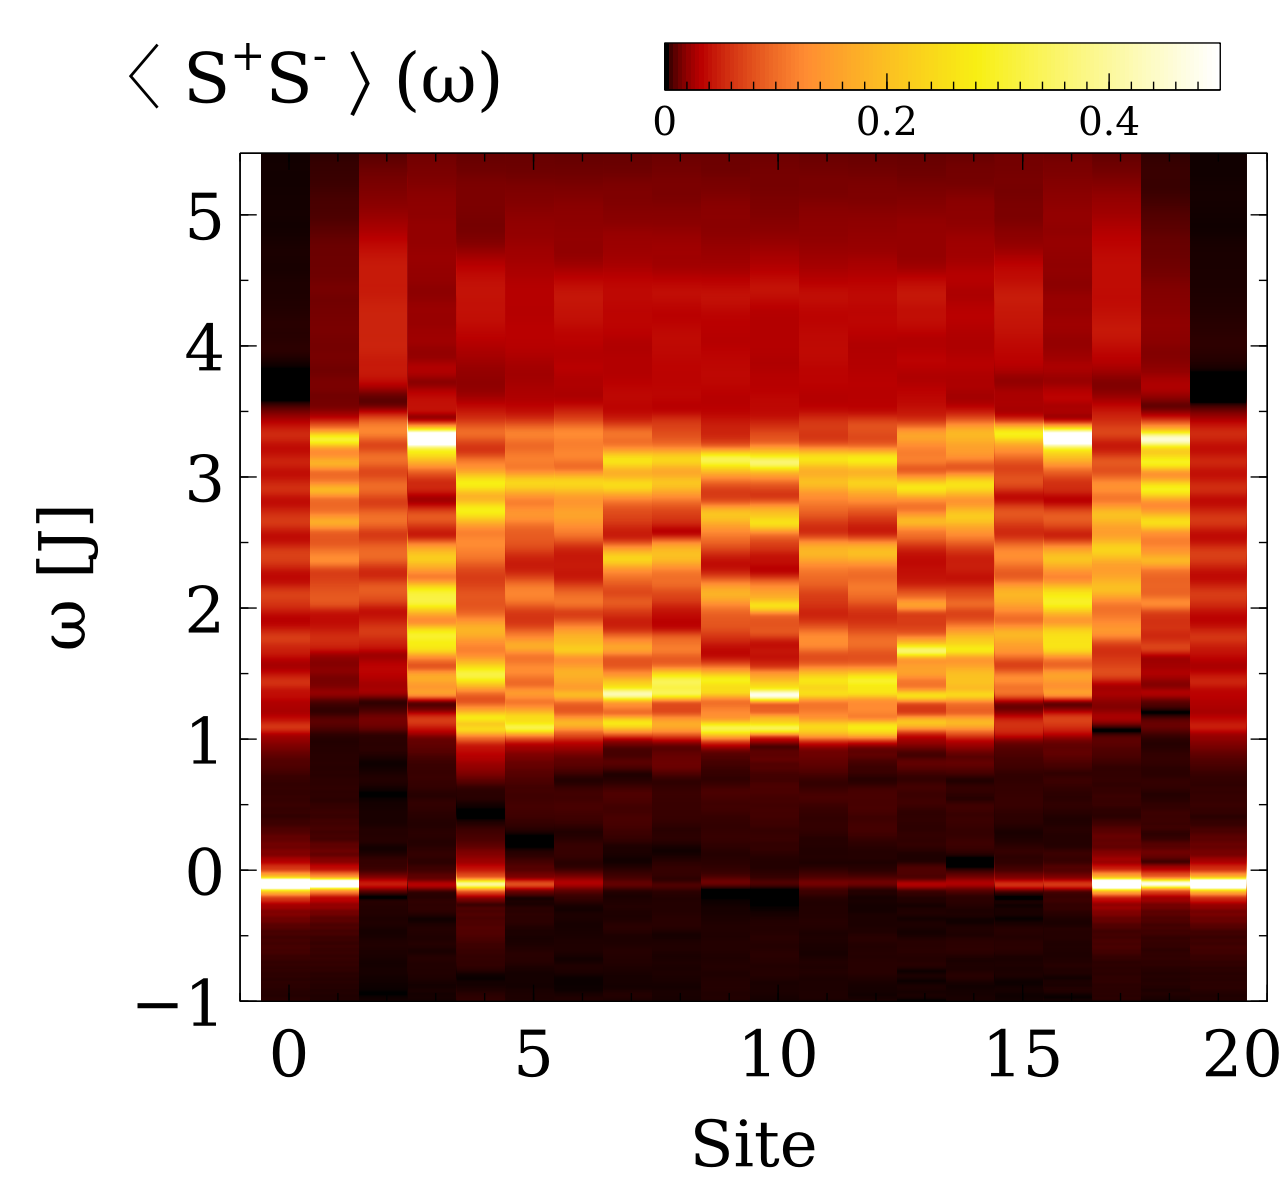
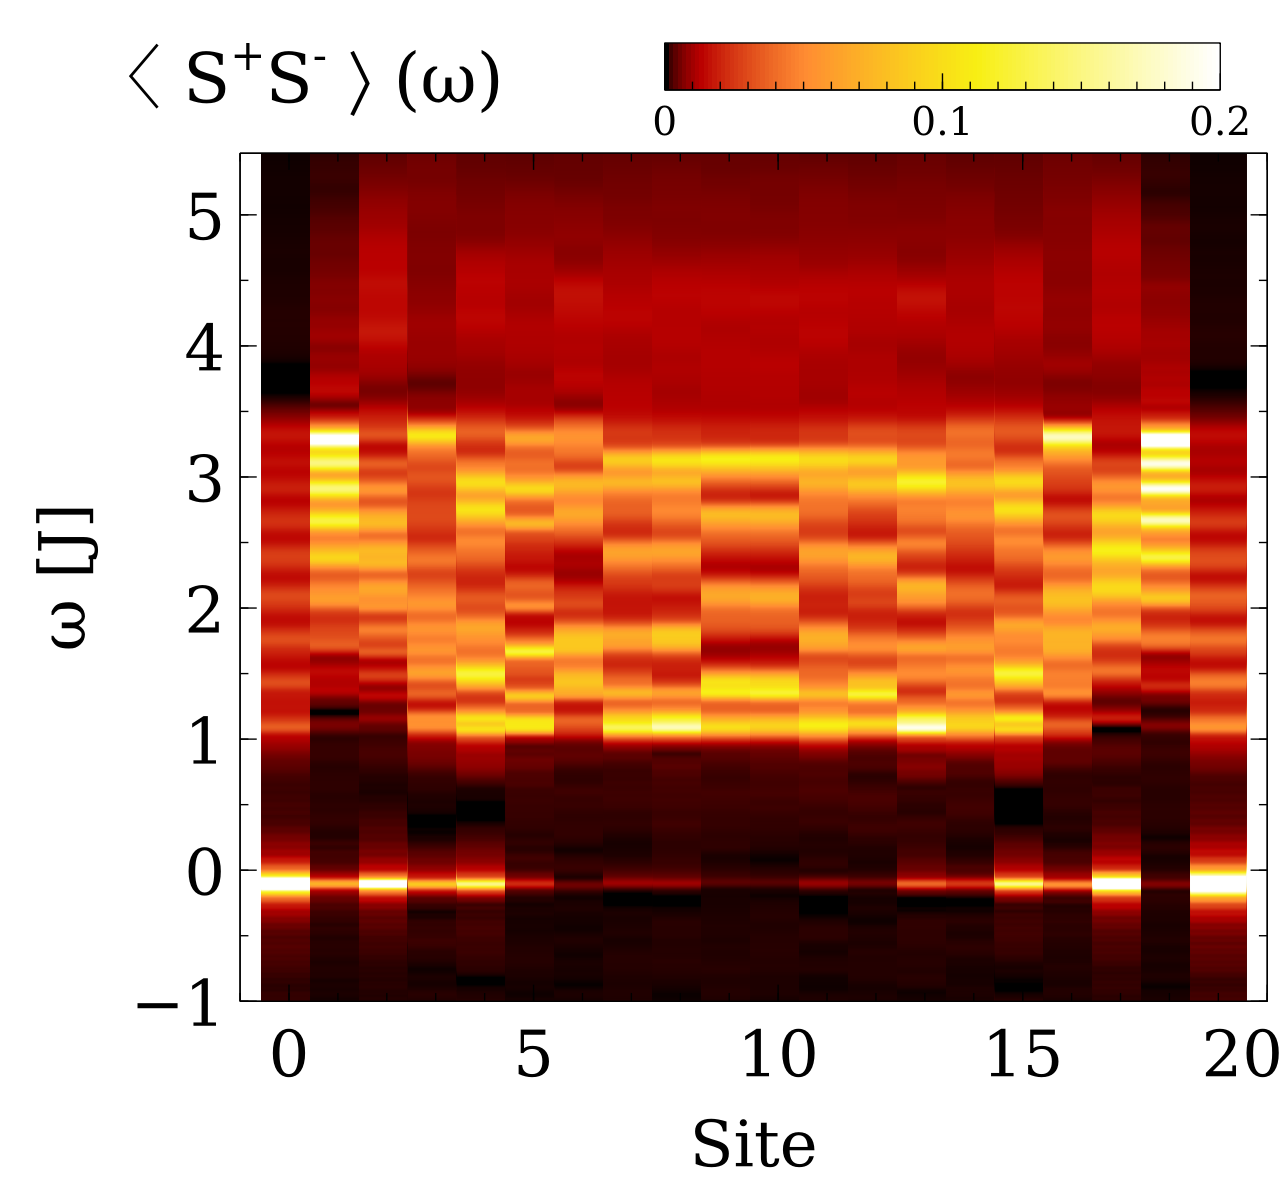
New version

diff --git a/src/kpmdmrg.py b/src/kpmdmrg.py
@@ -1,3 +1,4 @@
+from __future__ import print_function
 import numpy as np
 
 def get_moments_dmrg(self,n=1000):
@@ -74,16 +75,14 @@ def get_spismj(self,n=1000,mode="DMRG",i=0,j=0,smart=True,window=[-1,10]):
     xs -= e0 # substract GS energy
     # now retain only an energy window
   else: 
-    import pychain.build
-    sc = pychain.build.Spin_chain()
-    sc.build((np.array(self.spins)-1.)/2.,use_lib=False)
-    h = sc.add_tensor_interaction(self.get_coupling)
+    h = self.get_full_hamiltonian()
+    sc = self.get_pychain()
     import pychain.correlator
     if mode=="fullKPM":
-      (xs,ys) = pychain.correlator.spismj_kpm(sc,h,n=n)
-    elif mode=="full":
+      (xs,ys) = pychain.correlator.spismj_kpm(sc,h,n=n,i=i,j=j)
+    elif mode=="full" or mode=="ED":
       delta = float(self.ns)/n*1.5
-      (xs,ys) = pychain.correlator.spismj(sc,h,delta=delta)
+      (xs,ys) = pychain.correlator.spismj(sc,h,delta=delta,i=i,j=j)
     else: raise
   self.to_origin() # go to origin folder
   (xs,ys) = restrict_interval(xs,ys,window) # restrict the interval
@@ -94,11 +93,12 @@ def get_spismj(self,n=1000,mode="DMRG",i=0,j=0,smart=True,window=[-1,10]):
 def restrict_interval(x,y,window):
   """Restrict the result to a certain energy window"""
   if window is None: return (x,y)
-  i = np.argwhere(x<window[0])[0] # last one
-  j = np.argwhere(x>window[1])[0] # last one
-#  if len(i)==0: i = 0
-#  else: i = i[-1]
-  print(i,j,window[0])
+  i = np.argwhere(x<window[0]) # last one
+  j = np.argwhere(x>window[1]) # last one
+  if len(i)==0: i = 0
+  else: i = i[0][-1]
+  if len(j)==0: j = len(x)
+  else: j = j[0][0]
   return x[i:j],y[i:j]
 
 

diff --git a/src/spinchain.py b/src/spinchain.py
@@ -2,6 +2,7 @@ from __future__ import print_function
 import numpy as np
 import os
 import kpmdmrg
+import pychainwrapper
 
 dmrgpath = os.environ["DMRGROOT"] # path for the program
 one = np.identity(3)
@@ -69,11 +70,9 @@ class Spin_Hamiltonian():
     self.run() # perform the calculation
     return np.genfromtxt("ENTROPY.OUT")
   def get_full_hamiltonian(self):
-    import pychain.build
-    sc = pychain.build.Spin_chain()
-    sc.build((np.array(self.spins)-1.)/2.,use_lib=False)
-    h = sc.add_tensor_interaction(self.get_coupling)
-    return h
+    return pychainwrapper.get_full_hamiltonian(self)
+  def get_pychain(self):
+    return pychainwrapper.get_pychain(self)
   def get_dos(self,n=1000,mode="DMRG"):
     return kpmdmrg.get_dos(self,n=n,mode=mode)
   def get_spismj(self,n=1000,mode="DMRG",i=0,j=0,smart=False):
@@ -106,10 +105,7 @@ class Spin_Hamiltonian():
       self.run() # perform the calculation
       out = np.genfromtxt("GS_ENERGY.OUT") # return the ground state energy
     elif mode=="ED": # use brute force
-      import pychain.build
-      sc = pychain.build.Spin_chain()
-      sc.build((np.array(self.spins)-1.)/2.,use_lib=False)
-      h = sc.add_tensor_interaction(self.get_coupling)
+      h = self.get_full_hamiltonian() # get the Hamiltonian 
       import pychain.spectrum
       out = pychain.spectrum.ground_state(h)[0] # return energy
     else: 

diff --git a/test/correlator_kpm/main.py b/test/correlator_kpm/main.py
@@ -8,32 +8,28 @@ n = 6
 spins = [2 for i in range(n)] # spin 1/2 heisenberg chain
 sc = spinchain.Spin_Hamiltonian(spins) # create the spin chain
 
+sc.set_fields(lambda x: [0.,0.,1.])
+
 #sc.kpmmaxm = 10 # KPM max m
 sc.kpmscale = 10.0
 import time
 
 
-t0 = time.time()
-#(x1,y1) = sc.get_spismj(n=300,mode="DMRG",i=0,j=0,smart=True)
 t1 = time.time()
-(x2,y2) = sc.get_spismj(n=300,mode="DMRG",i=0,j=0,smart=False)
+(x2,y2) = sc.get_spismj(n=300,mode="DMRG",i=1,j=3)
 t2 = time.time()
-(x3,y3) = sc.get_spismj(n=300,mode="full",i=0,j=0)
+(x3,y3) = sc.get_spismj(n=300,mode="ED",i=1,j=3)
 t3 = time.time()
-#(x4,y4) = sc.get_spismj(n=300,mode="fullKPM",i=0,j=0)
-t4 = time.time()
 
-print("Time in full energy window",t2-t1)
+print("Time with DMRG",t2-t1)
 #print("Time in reduced energy window",t1-t0)
-print("Time using exact matrix inversion",t3-t2)
+print("Time with ED",t3-t2)
 #print("Time using exact KPM",t3-t2)
 
 import matplotlib.pyplot as plt
 
-#plt.plot(x1,y1,c="red",label="Smart DMRG")
-plt.plot(x2,y2,c="blue",label="KPM DMRG")
-plt.scatter(x3,y3,c="green",label="Exact inversion")
-#plt.scatter(x4,y4,c="black",label="KPM full")
+plt.plot(x2,y2,c="blue",label="DMRG")
+plt.scatter(x3,y3,c="green",label="ED")
 plt.xlim([-0.5,4.5])
 plt.legend()
 

diff --git a/src/pychain/correlator.py b/src/pychain/correlator.py
@@ -13,8 +13,8 @@ def spismj(sc,h0,es=None,i=0,j=0,delta=0.1):
   e0,wf0 = spectrum.ground_state(h0) # get the ground state
   if es is None:
     es = np.linspace(-1.0,7.0,int(40/delta))
-  sm = sc.sxi[i] + 1j*sc.syi[i] # S+
-  sp = sc.sxi[j] - 1j*sc.syi[j] # S-
+  sm = sc.sxi[i] - 1j*sc.syi[i] # S-
+  sp = sc.sxi[j] + 1j*sc.syi[j] # S+
   iden = np.identity(h0.shape[0],dtype=np.complex) # identity
   out = []
   for e in es: # loop over energies
@@ -32,16 +32,17 @@ def spismj_kpm(sc,h0,es=np.linspace(-1.0,4.0,300),i=0,j=0,delta=0.1,n=500):
   emax,wfmax = lg.eigsh(h0,k=1,ncv=20,which="LA")
   e0,wf0 = -e0[0],np.transpose(wf0)[0]
   emax = emax[0]
-  sm = sc.sxi[i] + 1j*sc.syi[i] # S+
-  sp = sc.sxi[j] - 1j*sc.syi[j] # S-
+  sm = sc.sxi[i] - 1j*sc.syi[i] # S-
+  sp = sc.sxi[j] - 1j*sc.syi[j] # S+
   vi = sm*csc(wf0).transpose() 
+  vj = sp*csc(wf0).transpose() 
   h = -identity(h0.shape[0])*e0+h0
   import kpm
   x = es # energies
   scale = (emax-e0)*1.3
-  (xs,ys) = kpm.dm_vivj_energy(h,vi,vi,scale=scale,
+  (xs,ys) = kpm.dm_vivj_energy(h,vi,vj,scale=scale,
                                     npol=n,ne=n*10,x=x)
-  return xs,ys/scale
+  return xs,ys
 
 
 

diff --git a/test/quasiperiodic_heisenberg/main.py b/test/quasiperiodic_heisenberg/main.py
@@ -1,25 +1,21 @@
+from __future__ import print_function
 import sys
 import os
 import numpy as np
 sys.path.append(os.environ["DMRGROOT"]) # root for dmrg
 import spinchain
 
-n = 6
+n = 20
 spins = [2 for i in range(n)] # spin 1/2 heisenberg chain
 sc = spinchain.Spin_Hamiltonian(spins) # create the spin chain
+def fb(i): return [0,0,np.cos(i*np.pi*np.sqrt(2))*(-1)**i]
+sc.set_fields(fb)
+
+e = sc.get_excited(n=10)
+print(e)
+exit()
 
 
-# dimerized coupling
-def fj(i,j):
-  if abs(i-j)==1: 
-    ij = (i+j)%4
-    dj = -0.2
-    if ij==1: return 1.0 + dj
-    else: return 1.0 - dj
-  return 0.0
-sc.set_exchange(fj) # set those exchange couplings
-
-sc.kpmmaxm = 10 # KPM max m
 
 fo = open("DCF.OUT","w") # dynamical correlation function
 

diff --git a/src/pychainwrapper.py b/src/pychainwrapper.py
@@ -1,0 +1,21 @@
+import numpy as np
+
+
+# wrapper function for pychain
+
+def get_full_hamiltonian(self):
+  sc = get_pychain(self) # get pychain object
+  h = sc.add_tensor_interaction(self.get_coupling) # add interaction
+#  print(self.fields)
+  h = h + sc.add_exchange(self.fields) # add magnetic fields
+  return h
+
+
+def get_pychain(self):
+  import pychain.build
+  sc = pychain.build.Spin_chain()
+  # the pychain library assumes that s=1/2 is for spin one-half
+  # whereas in DMRG s = 2 is for S=1/2
+  sc.build((np.array(self.spins)-1.)/2.,use_lib=False) 
+  return sc
+
